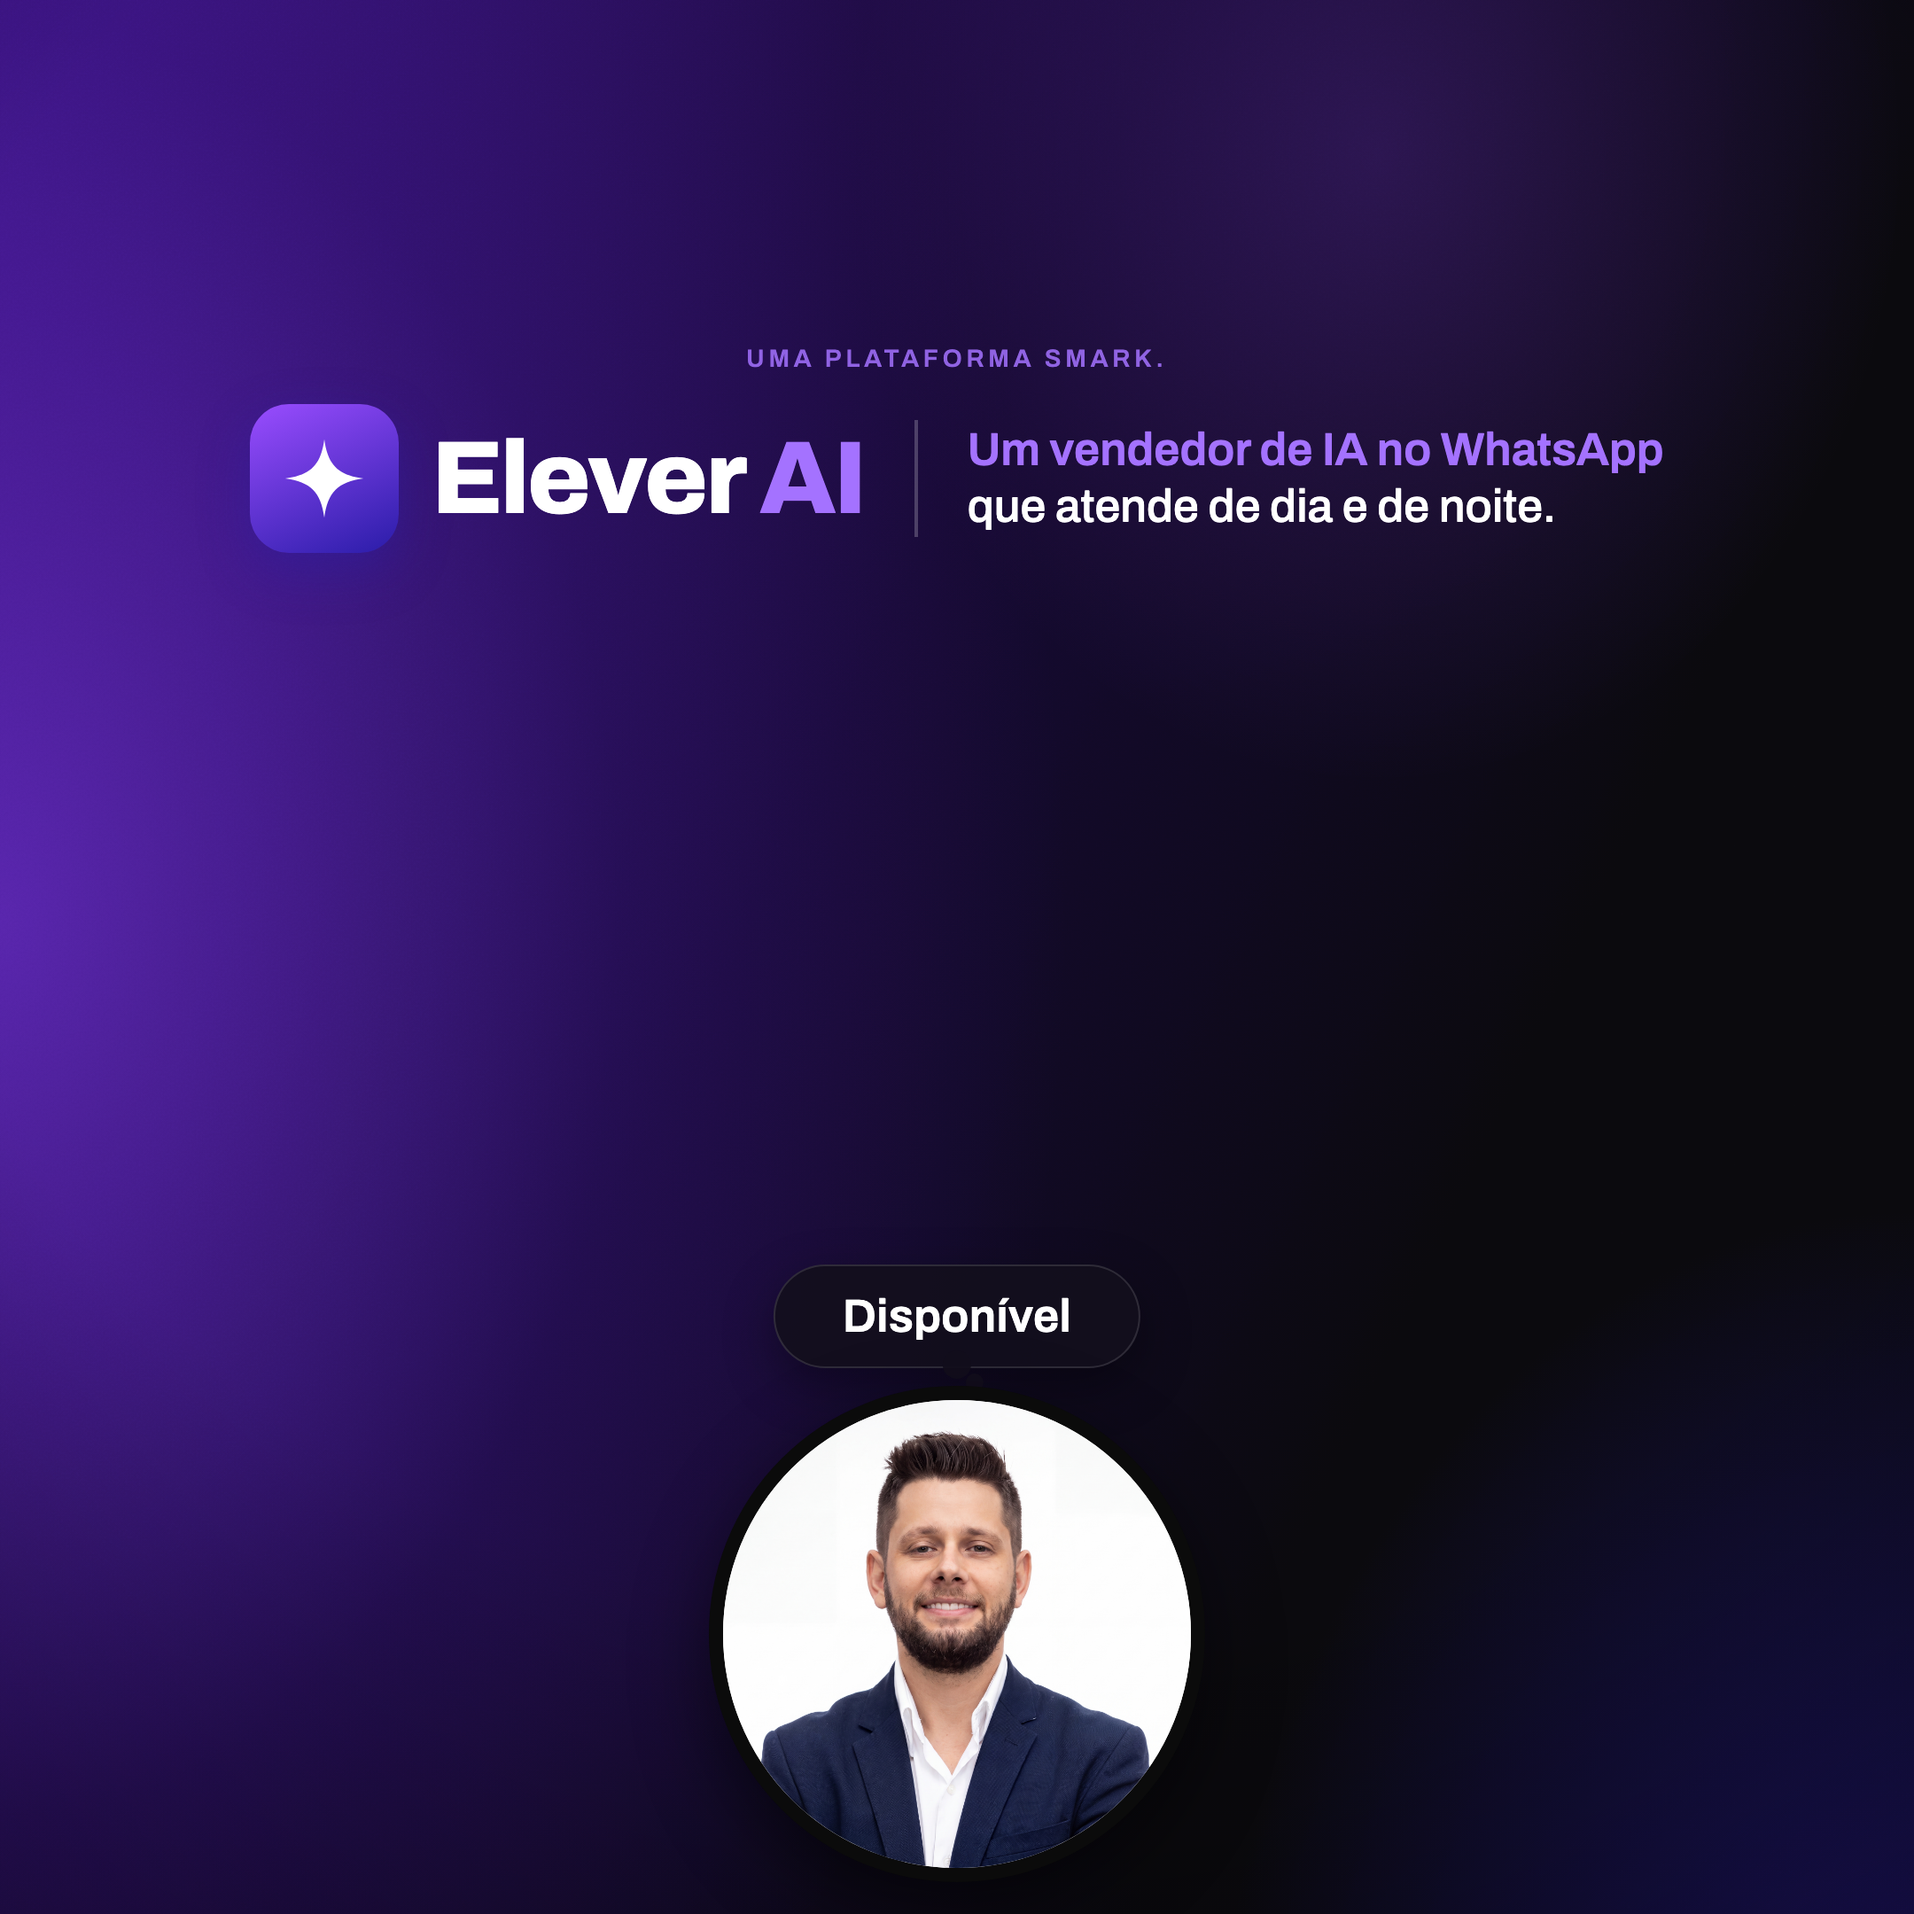
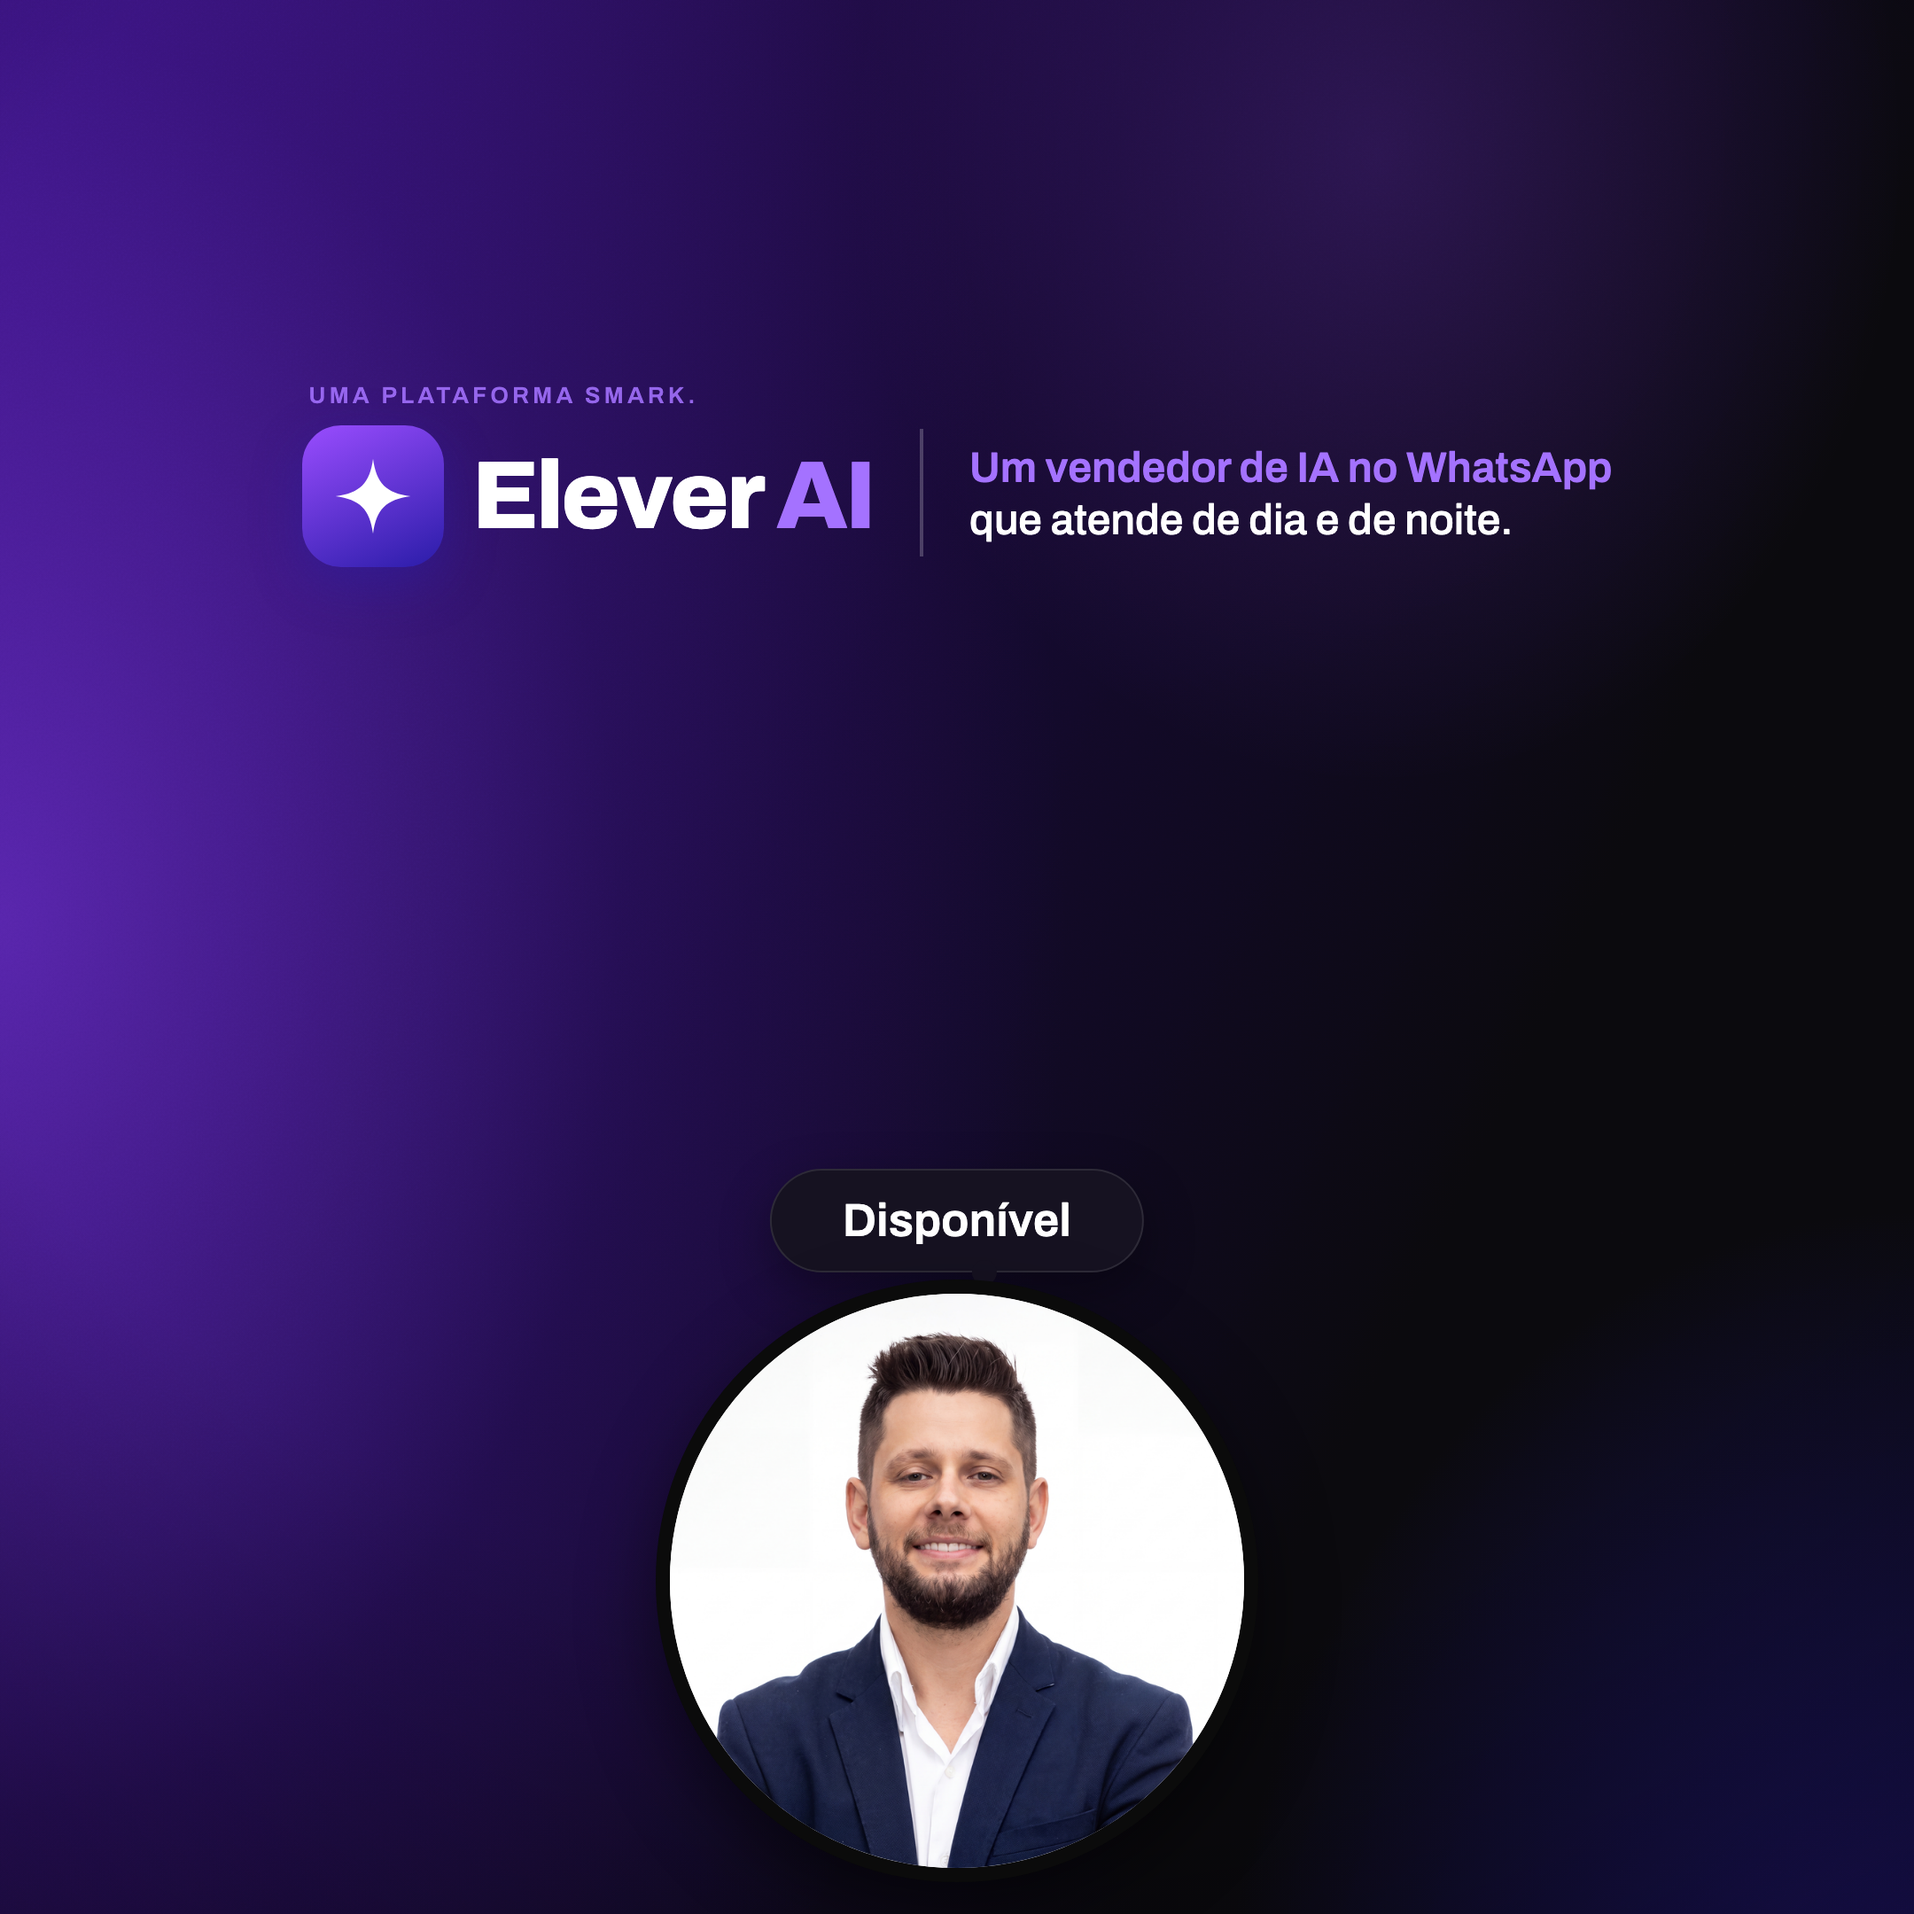
auto-save 2026-08-24 18:17:38

Changed region(s): [[0.3412, 0.5894, 0.6514, 0.9926], [0.1241, 0.1861, 0.8685, 0.3102]]

diff --git a/marcas/elever-ai/publicacoes/marketing/2026-08-24-card-whatsapp.md b/marcas/elever-ai/publicacoes/marketing/2026-08-24-card-whatsapp.md
@@ -1,0 +1,46 @@
+---
+marca: elever-ai
+canal: whatsapp
+formato: card
+status: draft
+data: 2026-08-24
+tema: Card WhatsApp Elever AI
+arte: arte/card-whatsapp/
+alt: Card da Elever AI com lockup oficial, selo uma plataforma smark, retrato e status Disponível
+tags: [whatsapp, card, perfil]
+pilares: []
+---
+
+# Card WhatsApp — Elever AI
+
+## Briefing original
+gere nos mesmos padroes da marca o card para colocar em meu whatsApp
+
+## Ângulo escolhido
+Mesma peça do print (lockup + status Disponível + retrato), refeita no chassi da marca: sparkle no quadrado em degradê, Archivo, acento `#A472FF`, endosso **uma plataforma smark.** Tema escuro porque a referência é o card roxo.
+
+Copy da tagline alinhada ao posicionamento vigente — o print dizia "plataforma de growth marketing e automação comercial", que a vitrine não usa.
+
+## Peças
+
+![[arte/card-whatsapp/card.png]]
+
+- `card.png` / `card.jpg` — paisagem 16:9 (3200×1800 @2x). É o card pra **mandar na conversa**.
+- `perfil.png` / `perfil.jpg` — quadrado 1:1. Mesma composição, formato feed/status.
+- `foto-perfil.png` / `foto-perfil.jpg` — foto de perfil 1080×1080, recorte circular do WhatsApp (rosto no centro + badge Elever).
+
+## Texto na arte
+- Selo: uma plataforma smark.
+- Lockup: Elever AI
+- Tagline: Um vendedor de IA no WhatsApp / que atende de dia e de noite.
+- Status: Disponível
+
+## Como usar
+1. **Foto de perfil do WhatsApp:** sobe `foto-perfil.jpg`.
+2. **Card pra enviar:** sobe `card.jpg` na conversa (ou como item de catálogo).
+3. O botão "Editar" do print é da interface — não entra na arte.
+
+## Notas de decisão
+- Retrato extraído do print e refeito em alta via `openai_edit.py` (mesma pessoa, blazer marinho, fundo branco).
+- Sem chip/rodapé de feed: não é post de Instagram.
+- Sem jargão do print antigo.
